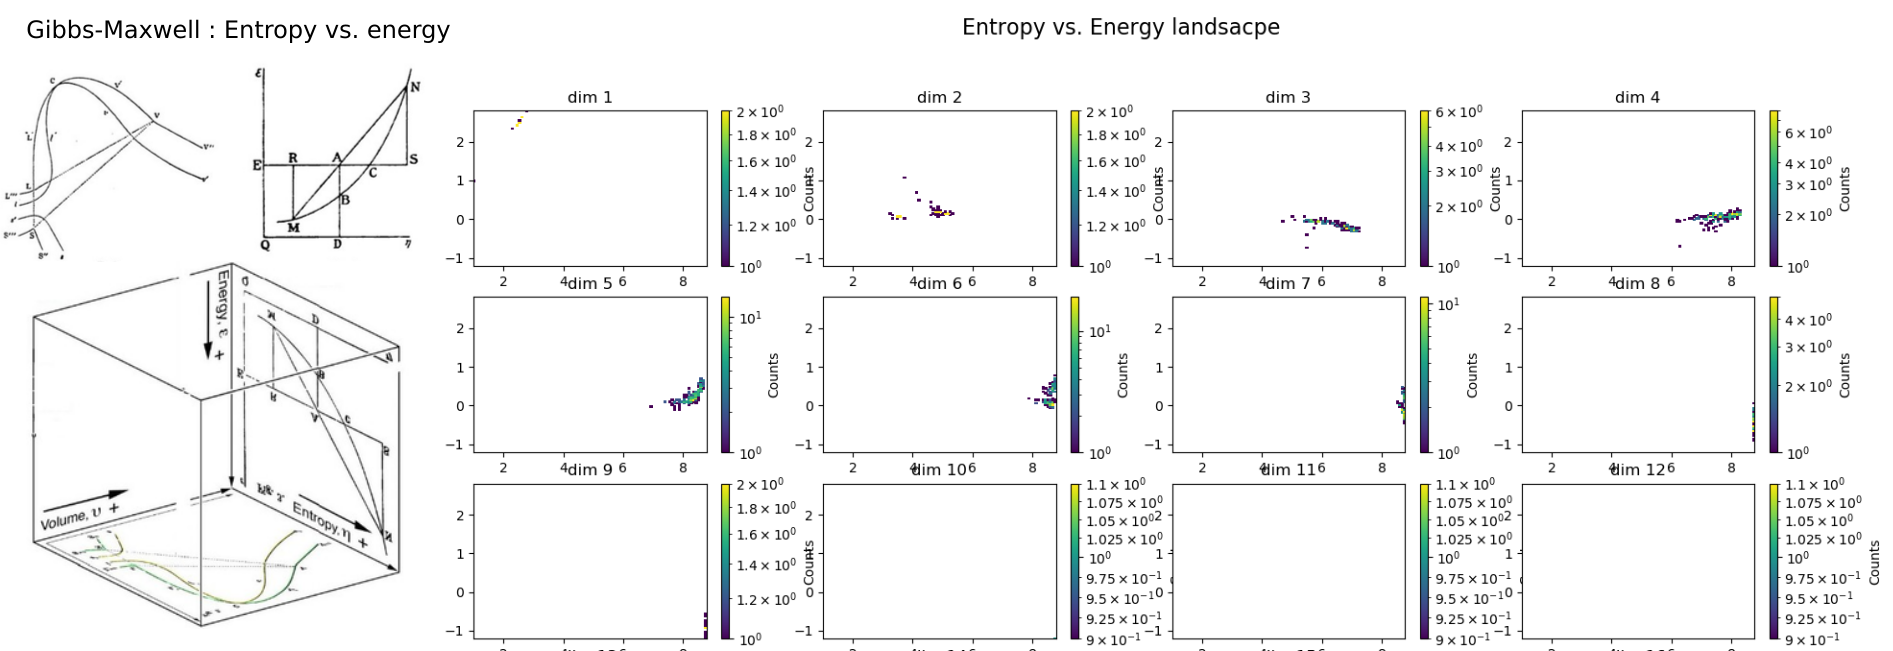
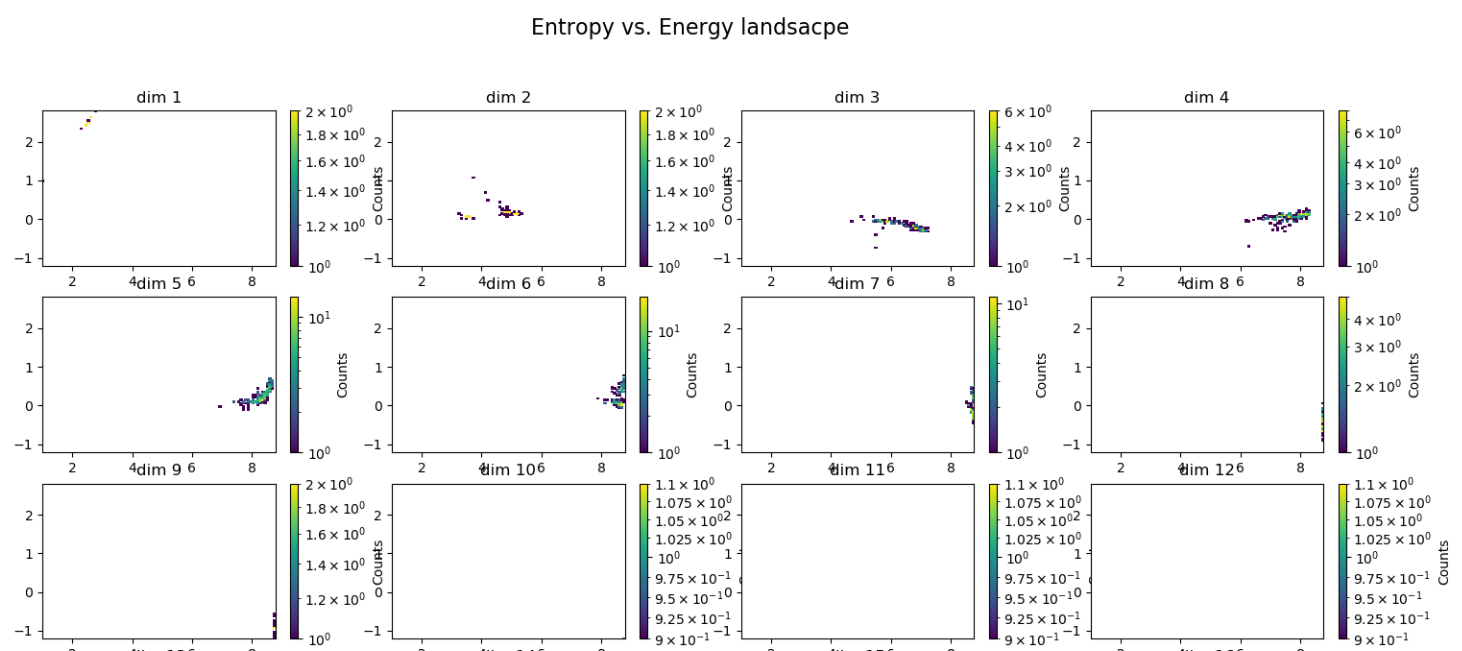
docs updates

diff --git a/infotopo.py b/infotopo.py
@@ -550,8 +550,6 @@ https://stackoverflow.com/questions/101439/the-most-efficient-way-to-implement-a
         moyenne={}
         nbpoint={}
         matrix_distrib_info=np.array([])
-        x_absss = np.array([])
-        y_absss = np.array([])
         maxima_tot=-1000000.00
         minima_tot=1000000.00
         ListEntropyordre={}
@@ -644,8 +642,6 @@ https://stackoverflow.com/questions/101439/the-most-efficient-way-to-implement-a
     def mutual_info_simplicial_lanscape(self, Ninfomut) :
         num_fig = 1
         matrix_distrib_infomut=np.array([])
-        x_absss = np.array([])
-        y_absss = np.array([])
 #######################################################
 #   COMPUTE THE LIST OF INFOMUT VALUES FOR EACH DEGREE
 # Display every Histo with its own scales:
@@ -811,8 +807,6 @@ https://stackoverflow.com/questions/101439/the-most-efficient-way-to-implement-a
         num_fig = 1 
         fig_Histo_infomut = plt.figure(num_fig,figsize=(18,10))
         matrix_distrib_info=np.array([])
-        x_absss = np.array([])
-        y_absss = np.array([]) 
         # Display every Histo with its own scales:   
         ListInfomutcond={}
         maxima_tot=-1000000.00
@@ -951,10 +945,78 @@ https://stackoverflow.com/questions/101439/the-most-efficient-way-to-implement-a
         fig_entropy_eneregy.suptitle('Entropy vs. Energy landsacpe', fontsize=16)    
         fig_entropy_eneregy.set_size_inches(18, 10)
         plt.show() 
+
+
+#########################################################################
+#########################################################################
+######    TOTAL CORRELATION - INTEGRATED INFORMATIOn    #################
+######                    FREE ENERGY                   #################
+#########################################################################
+#########################################################################
+    """
+    This function computes all total correlations or integrated information or free energy
+    """       
+
+    def total_correlation_simplicial_lanscape(self, Nentropie):
+        num_fig = 1
+        plt.figure(num_fig,figsize=(18,10))
+        matrix_distrib_info=np.array([])
+        maxima_tot=-1000000.00
+        minima_tot=1000000.00
+        list_tot_correlation={}
+        Ntotal_correlation={}
         
+        for i in range(1,self.dimension_max+1):
+            list_tot_correlation[i]=[]
 
-
-
+        for x,y in Nentropie.items():
+            sum_marginals = 0
+            for var in x:
+                sum_marginals = sum_marginals + Nentropie[(var,)]
+            total_corr =   sum_marginals - y 
+            Ntotal_correlation.update( {x : total_corr} )
+            list_tot_correlation[len(x)].append(total_corr)
+            if total_corr>maxima_tot:
+                maxima_tot=total_corr
+            if total_corr<minima_tot:
+                minima_tot=total_corr  
+  
+        for a in range(1,self.dimension_max+1):
+            if self.dimension_max<=9 :
+                plt.subplot(3,3,a)
+            else :
+                if self.dimension_max<=16 :
+                    plt.subplot(4,4,a)
+                else :
+                    if self.dimension_max<=20 :
+                        plt.subplot(5,4,a)
+                    else :
+                        plt.subplot(5,5,a)          
+            list_tot_correlation[a].append(minima_tot-0.1)
+            list_tot_correlation[a].append(maxima_tot+0.1)
+            n, bins, patches = plt.hist(list_tot_correlation[a], self.nb_bins_histo, facecolor='b')
+            plt.axis([minima_tot, maxima_tot,0,n.max()])
+            plt.title(str('G'+str(a)+' dist'))
+            if a==1 :
+                matrix_distrib_info=n
+            else:
+                matrix_distrib_info=np.c_[matrix_distrib_info,n]
+            plt.grid(True)   
+        
+        num_fig=num_fig+1
+        fig_total_correlation_landscape =plt.figure(num_fig,figsize=(18, 10))
+        matrix_distrib_info=np.flipud(matrix_distrib_info)
+        plt.matshow(matrix_distrib_info, cmap='jet', aspect='auto', extent=[0,self.dimension_max,minima_tot-0.1,maxima_tot+0.1], norm=LogNorm(), fignum= num_fig)
+        plt.axis([0,self.dimension_max,minima_tot,maxima_tot])
+        cbar = plt.colorbar()
+        cbar.set_label('# of tuples', rotation=270)
+        plt.grid(False)
+        plt.xlabel('dimension')
+        plt.ylabel('Gk value (bits)')
+        plt.title('Total correlation Gk landscape')
+        fig_total_correlation_landscape.set_size_inches(18, 10)
+        plt.show(num_fig)
+        return Ntotal_correlation
 
 
 # ##########################################################################################
@@ -1310,11 +1372,13 @@ if __name__ == "__main__":
     if dataset_type == 1 or dataset_type == 4:
         print(Nentropie)
     information_topo.entropy_simplicial_lanscape(Nentropie)
-    information_topo = infotopo(dim_to_rank = 2, number_of_max_val = 2)
+    information_topo = infotopo(dim_to_rank = 4, number_of_max_val = 2)
     if dataset_type != 4:
         dico_max, dico_min = information_topo.display_higher_lower_information(Nentropie, dataset)
 
 # Ninfomut is dictionary (x,y) with x a list of kind (1,2,5) and y a value in bit
+    Ntotal_correlation = information_topo.total_correlation_simplicial_lanscape(Nentropie)
+    dico_max, dico_min = information_topo.display_higher_lower_information(Ntotal_correlation, dataset)
     start = timeit.default_timer()   
     Ninfomut = information_topo.simplicial_infomut_decomposition(Nentropie)
     stop = timeit.default_timer()
@@ -1326,11 +1390,15 @@ if __name__ == "__main__":
         dico_max, dico_min = information_topo.display_higher_lower_information(Ninfomut, dataset)
     adjacency_matrix_mut_info = information_topo.mutual_info_pairwise_network(Ninfomut)
     mean_info, mean_info_rate  =information_topo.display_mean_information(Ninfomut)
+    # CONDITIONAL INFO OR ENTROPY
     NcondInfo = information_topo.conditional_info_simplicial_lanscape(Ninfomut)
     information_topo.display_higher_lower_cond_information(NcondInfo)
+    # ENTROPY vs. ENERGY LANDSCAPE
+    information_topo.display_entropy_energy_landscape(Ntotal_correlation, Nentropie)
     information_topo.display_entropy_energy_landscape(Ninfomut, Nentropie)
+    
 
- #  key for key in Ninfomut if len(key)==2
+
 
         
 

diff --git a/docs/basic_methods.rst b/docs/basic_methods.rst
@@ -57,6 +57,9 @@ visualise the results, and pandas to handle the data.
 Iris data
 ---------
 
+Iris dataset
+============
+
 The first example of dataset application we will present is the `iris
 dataset <https://en.wikipedia.org/wiki/Iris_flower_data_set>`__. It is
 a very small dataset composed of 4 Random-Variables or dimensions that 
@@ -184,6 +187,9 @@ way, we will see how to compute and estimate all classical information functions
 multivariate Entropies, Mutual Informations and Conditional Entropies and 
 Mutual Informations. 
 
+Entropy
+=======
+
 To use infotopo we need to first construct a infotopo object from 
 the infotopo package. This makes a lot of same word, information is a 
 functor, a kind of general application or map, that could be either a 
@@ -287,15 +293,37 @@ provide a faithfull estimate, to avoid the sampling problem also called "curse o
 "entropy_simplicial_lanscape" also computes the maximal dimension above which the estimation becomes too inacurate and
 shall not be interpreted. This is explained in more details in the section "curse_of_dimension_and_statistical_dependencies_test". 
 
+Mutual Information
+==================
+
 Now, let's have a look at the statistical dependencies structures in the dataset by computing the Mutual-Information lanscapes 
 which principle is depicted in the preceding figure and that basically plots k-dimensional multivariate Mutual Informations (:math:`I_k`) in the same 
 way as Entropy Landscapes. :math:`I_k` are alternated functions of entropies, for example, 
-:math:`I_3=H(X_1)+H(X_2)+H(X_3)-H(X_1,X_2)-H(X1,X_3)-H(X_2,X_3)+H(X_1,X_2,X_3)`. They differ from Total Correlations (:math:`G_k`) which are the 
-Kullback-Leibler Divergence between the full joint-entropy and its marginals product, for example, :math:`G_3=H(X_1)+H(X_2)+H(X_3)-H(X_1,X_2,X_3)`. 
+:math:`I_3=H(X_1)+H(X_2)+H(X_3)-H(X_1,X_2)-H(X1,X_3)-H(X_2,X_3)+H(X_1,X_2,X_3)`:
+
+.. math::	
+    I_k(X_1,...,X_k;P)=\sum_{i=1}^{k}(-1)^{i-1}\sum_{I\subset [k];card(I)=i}H_i(X_I;P)}
+
+
+They differ from Total Correlations (:math:`G_k`) which are the Kullback-Leibler Divergence between the full joint-entropy and its marginals product, 
+for example, :math:`G_3=H(X_1)+H(X_2)+H(X_3)-H(X_1,X_2,X_3)`:
+
+.. math::
+    G_k= G_k(X_1;...X_k;P)=\sum_{i=1}^k H(X_i) - H(X_1;...X_k)}
+
+
 In contrast with :math:`G_k`, :math:`I_k` can be negative for :math:`k \geq 3`, a phenomenon called synergy in the original study of Brenner et al.
 Considering the old goal of expressing all of physics in terms of information, following Brillouin, Jaynes, Wheeller (...), for `k \geq 2`, 
 :math:`G_k` corresponds to a Free-Energy functional of a k interacting body system, while the  :math:`I_k` quantifies the contribution of the 
-k-bodies interaction to this total free energy. The :math:`I_1` component is the internal energy. 
+k-bodies interaction to this total free energy. The :math:`I_1` component is the internal energy:
+
+.. math::
+    H_k(X_1,..,X_k;P_N)=E(X_1,..,X_k;P_N)-G(X_1,..,X_k;P_N)=E-G
+
+The Free-energy decomposes itself as an alternated sum of :math:`I_k` : 
+
+.. math::
+    G_k =\sum_{i=2}^{k}(-1)^{i}\sum_{I\subset [n];card(I)=i}I_i(X_I;P)    
 
 To plot the Information Landscapes and the distribution of :math:`I_k` values for each dimension-rank k, we use 
 the "entropy_simplicial_lanscape" command as following:   
@@ -327,6 +355,9 @@ And we obtain the two pairs of variables (1,2) and (2,3) that are the less stati
 .. image:: images/iris_min_I2.png
 
 Whenever the dimension to study is more than 4, the function only retreives the dictionaries of the first maximum and minimum tuples (to print).
+
+Information Networks
+====================
 
 In biology (e.g "omic"), neuroscience (e.g "neural network") and social science (e.g "social network"), it is common and helpfull to conceive and 
 visualize the one and two dimensional results as (first degree) networks. To visualize the Information Networks, we use the 
@@ -360,6 +391,9 @@ We begin to see that Homological tools provides a wide generalisation of complex
 Diabetes data
 -------------
 
+Diabetes dataset
+================
+
 The Iris dataset and its associated information landsacpes are in too low dimension to appreciate all the interest of the methods in higher dimensions,
 so lets turn to larger dimensional classical machine learning dataset: Diabetes dataset. This dataset is kindly also furnished by scikitlearn, and we load it with the same methods as previously:
 
@@ -380,7 +414,13 @@ so lets turn to larger dimensional classical machine learning dataset: Diabetes 
 
 This dataset contains 10 variables-dimensions for a sample size (number of points) of 442 and a target (label) variable which quantifies diabetes 
 progress. The ten variables are [age, sex, body mass index, average blood pressure, T-Cells, low-density lipoproteins, high-density lipoproteins,
-thyroid stimulating hormone, lamotrigine, blood sugar level] in this order. As before, we execute:
+thyroid stimulating hormone, lamotrigine, blood sugar level] in this order. 
+
+
+Entropy
+=======
+
+As before, we execute:
 
 .. code:: python3
 
@@ -416,14 +456,46 @@ allow different number of values adapted for each variable (binary ternary etc..
 
 .. image:: images/diabetes_3min_H4.png
 
-We can now focus on the statistical depencies and :math:`I_k` structures, by running as previously the commands:
+
+Total correlation
+=================
+
+We can now focus on the statistical depencies and :math:`G_k` and :math:`I_k` structures, we will first compute the total correlation :math:`G_k` (`Watanabe <http://www.neuralmachines.com/references/correlation.pdf>`_.) 
+, or total free energy, also called Integrated Information (`Tononi and Edelman <http://www.neuralmachines.com/references/correlation.pdf>`_),
+by running as previously the commands:
+
+.. code:: python3
+
+    Ntotal_correlation = information_topo.total_correlation_simplicial_lanscape(Nentropie)
+    dico_max, dico_min = information_topo.display_higher_lower_information(Ntotal_correlation, dataset)
+    
+and we obtain the following :math:`G_k` landscape:
+
+.. image:: images/diabetes_total_correlation_landscape.png
+
+which corresponds to the following distributions of free energy :math:`G_k` for each dimensions: 
+
+.. image:: images/diabetes_total_correlation_histograms.png
+
+The structure of dependences appears much richer, notably the landscape exhibits nice and clearcut bimodal distribution of free energy from
+dimension 3 to dimension 8. The data points 4-subspace corresponding to the two first minima and maxima of :math:`G_4` look like this : 
+
+.. image:: images/diabetes_min_max_G4.png
+
+As expected the two :math:`G_4` minima present the dependent 4-subspace, but the the two :math:`G_4` maxima, for the 4-tuples (5,6,7,8) 
+and (5,6,8,9), present higly dependent very nice statistical dependencies (further detailed in the :math:`I_4` subsection bellow).
+
+
+Mutual Information
+==================
+We can now plot similarly the :math:`I_k` landscape, using the commands:
 
 .. code:: python3
 
     Ninfomut = information_topo.simplicial_infomut_decomposition(Nentropie) 
     information_topo.mutual_info_simplicial_lanscape(Ninfomut)
     dico_max, dico_min = information_topo.display_higher_lower_information(Ninfomut, dataset)
-    adjacency_matrix_mut_info =information_topo.mutual_info_pairwise_network(Ninfomut)
+    adjacency_matrix_mut_info =information_topo.mutual_info_pairwise_network(Ntotal_correlation)
 
 and we obtain the following :math:`I_k` landscape:
 
@@ -433,7 +505,8 @@ which corresponds to the following distributions of k-mutual information for eac
 
 .. image:: images/diabetes_information_histograms.png
 
-The structure of dependences appears much richer, notably with important negative values (it was chosen to illustrate this very peculiar phenomena)
+:math:`I_k` landscape bring new results that could not be infered from total correlations, notably thanks to its possible negativity.
+The :math:`I_k` landscape of diabetes dataset notably displays important negative values (it was chosen to illustrate this very peculiar phenomena)
 in dimension 3 and 4 for  some 3-tuples and 1 4-tuples (framed in blue). The data points 4-subspace corresponding to this minimal :math:`I_4` 
 and the  maximal :math:`I_4` look like this (with different views) : 
 
@@ -455,6 +528,10 @@ A section in "how_infotopo_works" is dedicated to a more complete study and expl
 of `Tapia et al. <https://www.nature.com/articles/s41598-018-31765-z>`_ provides further examples of strong positive k-tuplet, e.g of statistical 
 interactions without common cause, or more simply causal chains (e.g metabolic chains). 
 
+
+Information Networks
+====================
+
 The information networks representation of :math:`I_1` and :math:`I_2` for the diabetes dataset is:  
 
 .. image:: images/diabetes_information_networks.png
@@ -463,6 +540,9 @@ The maxima of :math:`I_2` are for (5,6) then (7,8) then (6,8) and minima of :mat
 cause 7 and 8, and that 6 causes 7 and 8, while 5 and 6 are highly inter-dependent, among other relation, potentially complex relationships that
 can be infered from the information landscape. 
 
+
+Mean Information path
+=====================
 
 It is interesting to compute and plot the mean :math:`I_k` paths, which consist in dividing the sum of :math:`I_k` by the binomial coefficient 
 :math:`\binom{n}{k}`, and the Mean :math:`I_k` rate , which consist in dividing the preceeding result by the dimension:
@@ -486,6 +566,9 @@ and identical k-body interactions. We recover a usual free-energy landscape anal
 at the critical dimension 3, which shows that the interactions (or statistical dependences) in the data are weak in average (almost the 
 independent case). The same computation and definitions can be acheived for k-entropy, and is let as an exercise. 
 
+Conditional (transfer) Informations
+===================================
+
 The visualization of information landscapes as histograms do not permit to visualize and study the conditional entropies and Mutual informations, 
 that can be very interesting as we saw with the (extension) of transfer entropy. They are given by chain rules and correspond to minus the slope 
 of each edges of the lattice in the landscapes. It is possible to plot them using the command: 
@@ -505,16 +588,19 @@ Yeung translates directly in information landscapes as bounds on the slope paths
 
 .. image:: images/diabetes_condinfo_landscape.png
 
+Entropy Vs. Energy
+==================
+
 Following the `original figure <https://en.wikipedia.org/wiki/Gibbs_free_energy>`_ ENTROPY vs. ENERGY vs. VOLUME of Willard Gibbs (1873) James 
-Clerk Maxwell (1874), we can resume part of the preceding results by ploting :math:`H_k` (absyssa) vs. :math:`I_k` (ordinate) using the command:
+Clerk Maxwell (1874), we can resume part of the preceding results by ploting :math:`H_k` (absyssa) vs. :math:`G_k` (ordinate) using the command:
 
 .. code:: python3
 
-    information_topo.display_entropy_energy_landscape(Ninfomut, Nentropie)
+    information_topo.display_entropy_energy_landscape(Ntotal_correlation, Nentropie)
 
-.. image:: images/diabetes_entropy_energy_landscape.png
+.. image:: images/diabetes_entropy_energyGk_landscape.png
 
-It notably shows how two population of data points clusters in dimension 2 and 6. 
+It notably shows how two population of data points clusters from dimension 6 to 8. 
 
 So far, we have uncovered how rich and intrinsically complex can be the statistical structure of a dataset (indeed the partition general case is even much richer).
 As far as we explored various dataset, each of them are peculiar, and indeed characterize the dataset (as far as the (joint) probability functions caracterize 
